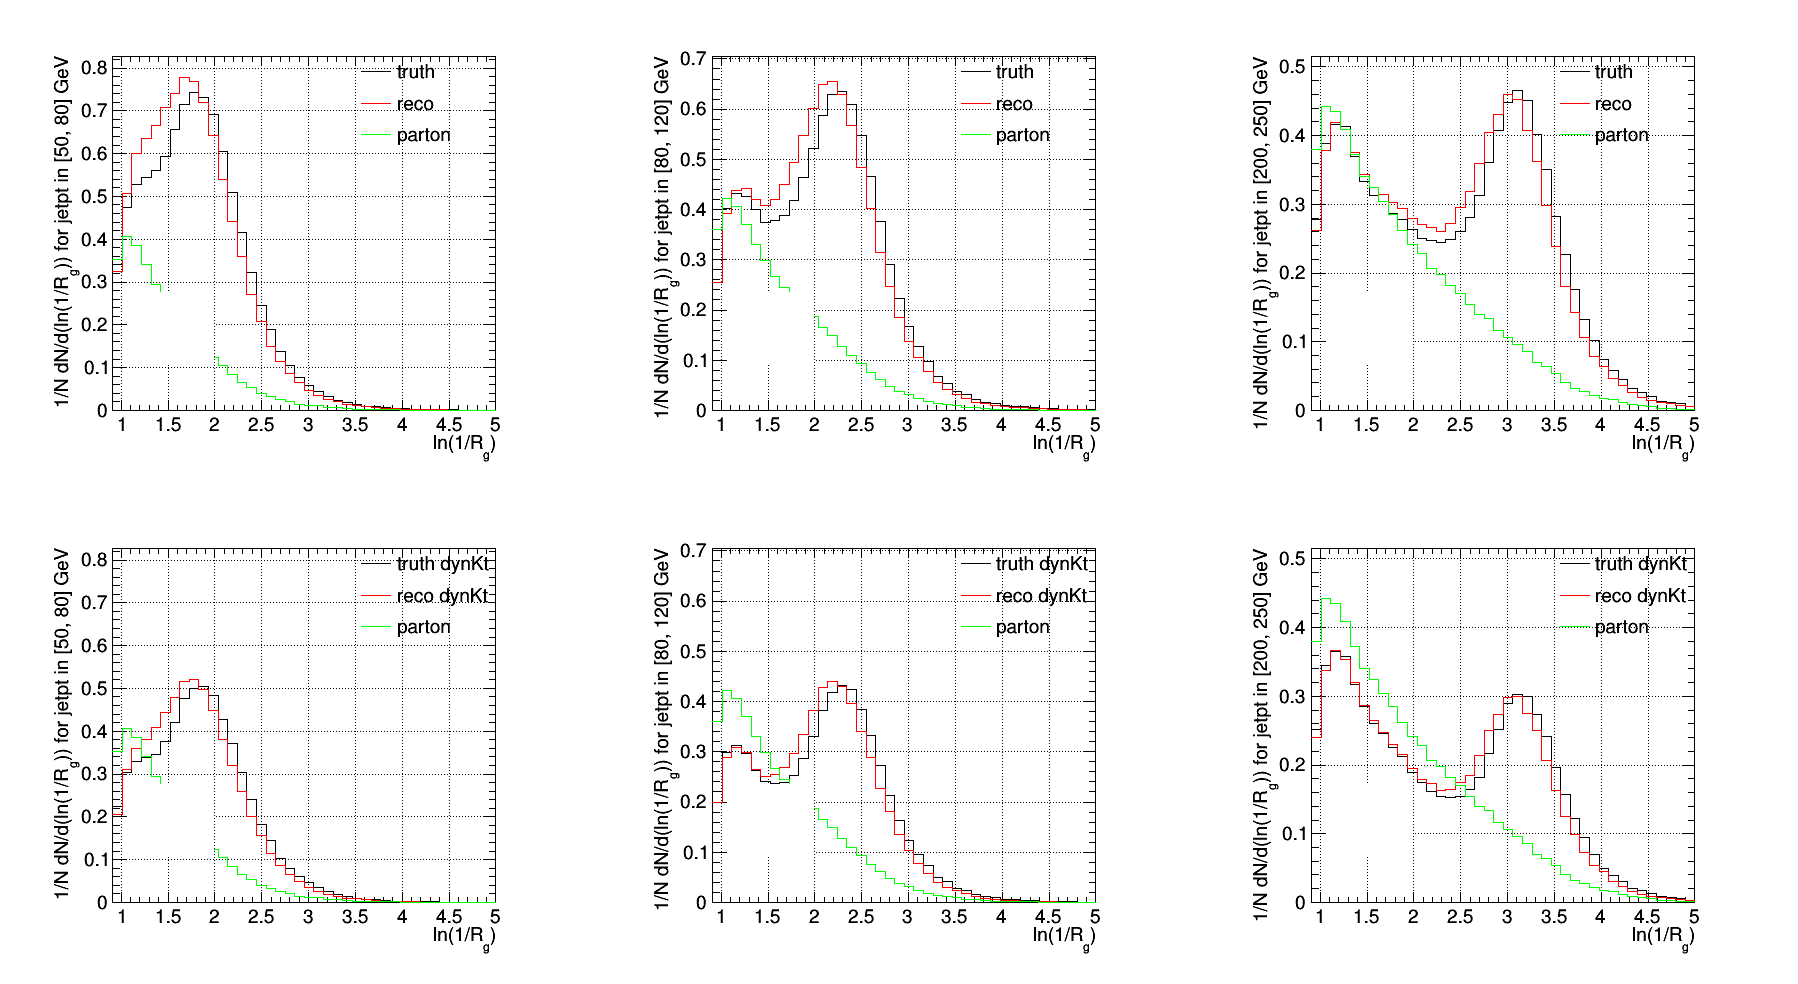
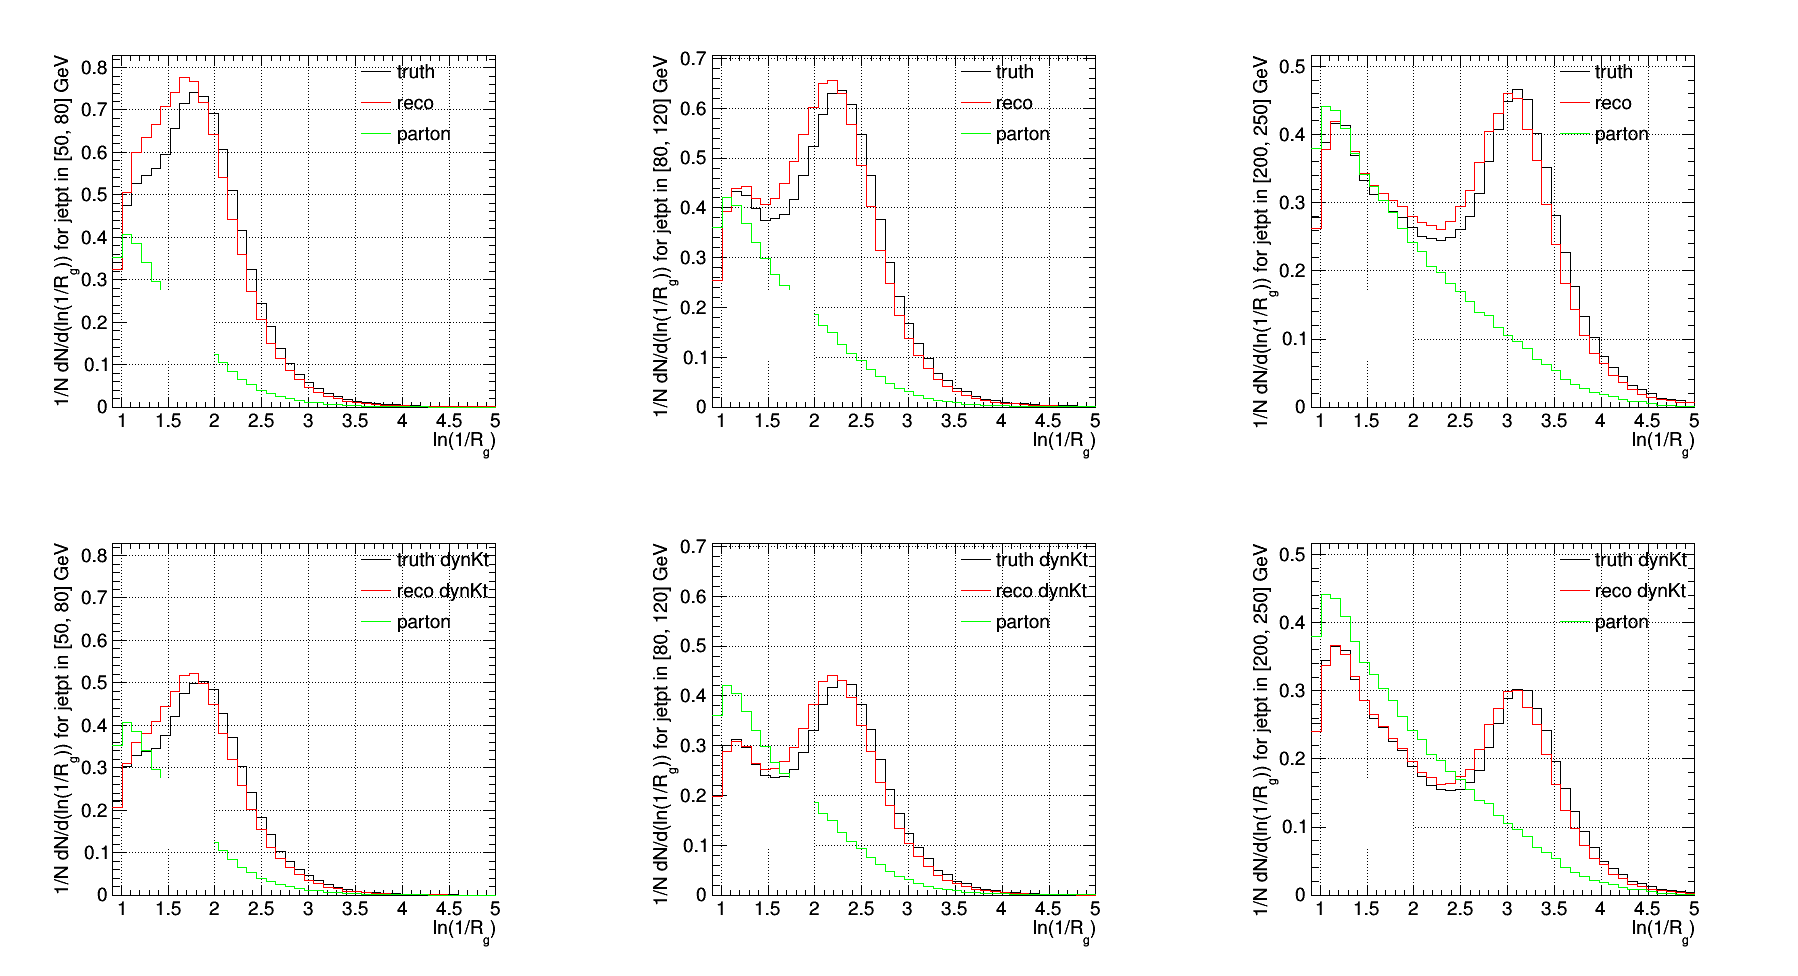
chargedSJ new plots for all jet flavours

diff --git a/myMacros/pt2dscan/chargedSJ_new/draw_chargedSJ.C b/myMacros/pt2dscan/chargedSJ_new/draw_chargedSJ.C
@@ -12,7 +12,7 @@
 
 using namespace std;
 
-void draw_chargedSJ(string jetFlav = "B", bool GSPincl = true)
+void draw_chargedSJ(string jetFlav = "B", bool GSPincl = false)
 {      
     /* Draw truth vs reco level with manual B aggregation */ 
 
@@ -70,8 +70,8 @@ void draw_chargedSJ(string jetFlav = "B", bool GSPincl = true)
     c_ratio->Divide(npt, 2); // 2 for  reco / truth, reco dynKt / truth dynKt
 
     // Create / Draw 1D histograms - Projections
-    TCanvas *crg = new TCanvas("crg", "crg", 1800, 1000);
-    crg->Divide(npt, 2); // 2 for truth + reco, truth dynKt + reco dynKt
+    //TCanvas *crg = new TCanvas("crg", "crg", 1800, 1000);
+    //crg->Divide(npt, 2); // 2 for truth + reco, truth dynKt + reco dynKt
 
     for (int i = 0; i < npt; i++) {
         Float_t ptmin = ptrange[i][0];
@@ -133,7 +133,7 @@ void draw_chargedSJ(string jetFlav = "B", bool GSPincl = true)
 
         // c : ref, reco
         Float_t zmin = 0.;
-        Float_t zmax = 0.2;
+        Float_t zmax = 0.3;
 
         c->cd(i + 1);
         c->cd(i + 1)->SetGrid();
